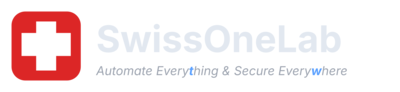
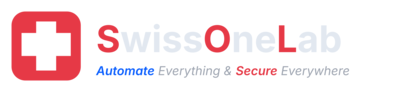
update: slogan + Brand Kit — Automate Everything & Secure Everywhere

diff --git a/README.md b/README.md
@@ -169,7 +169,7 @@ By day I design platform environments — by night I explore cybersecurity, reve
 
 <div align="center">
 
-*"Automate Everything. Secure Everything."* 🛡
+*"Automate Everything & Secure Everywhere"*
 
 **[swissonelab.com](https://swissonelab.com)** · Switzerland 🇨🇭
 
